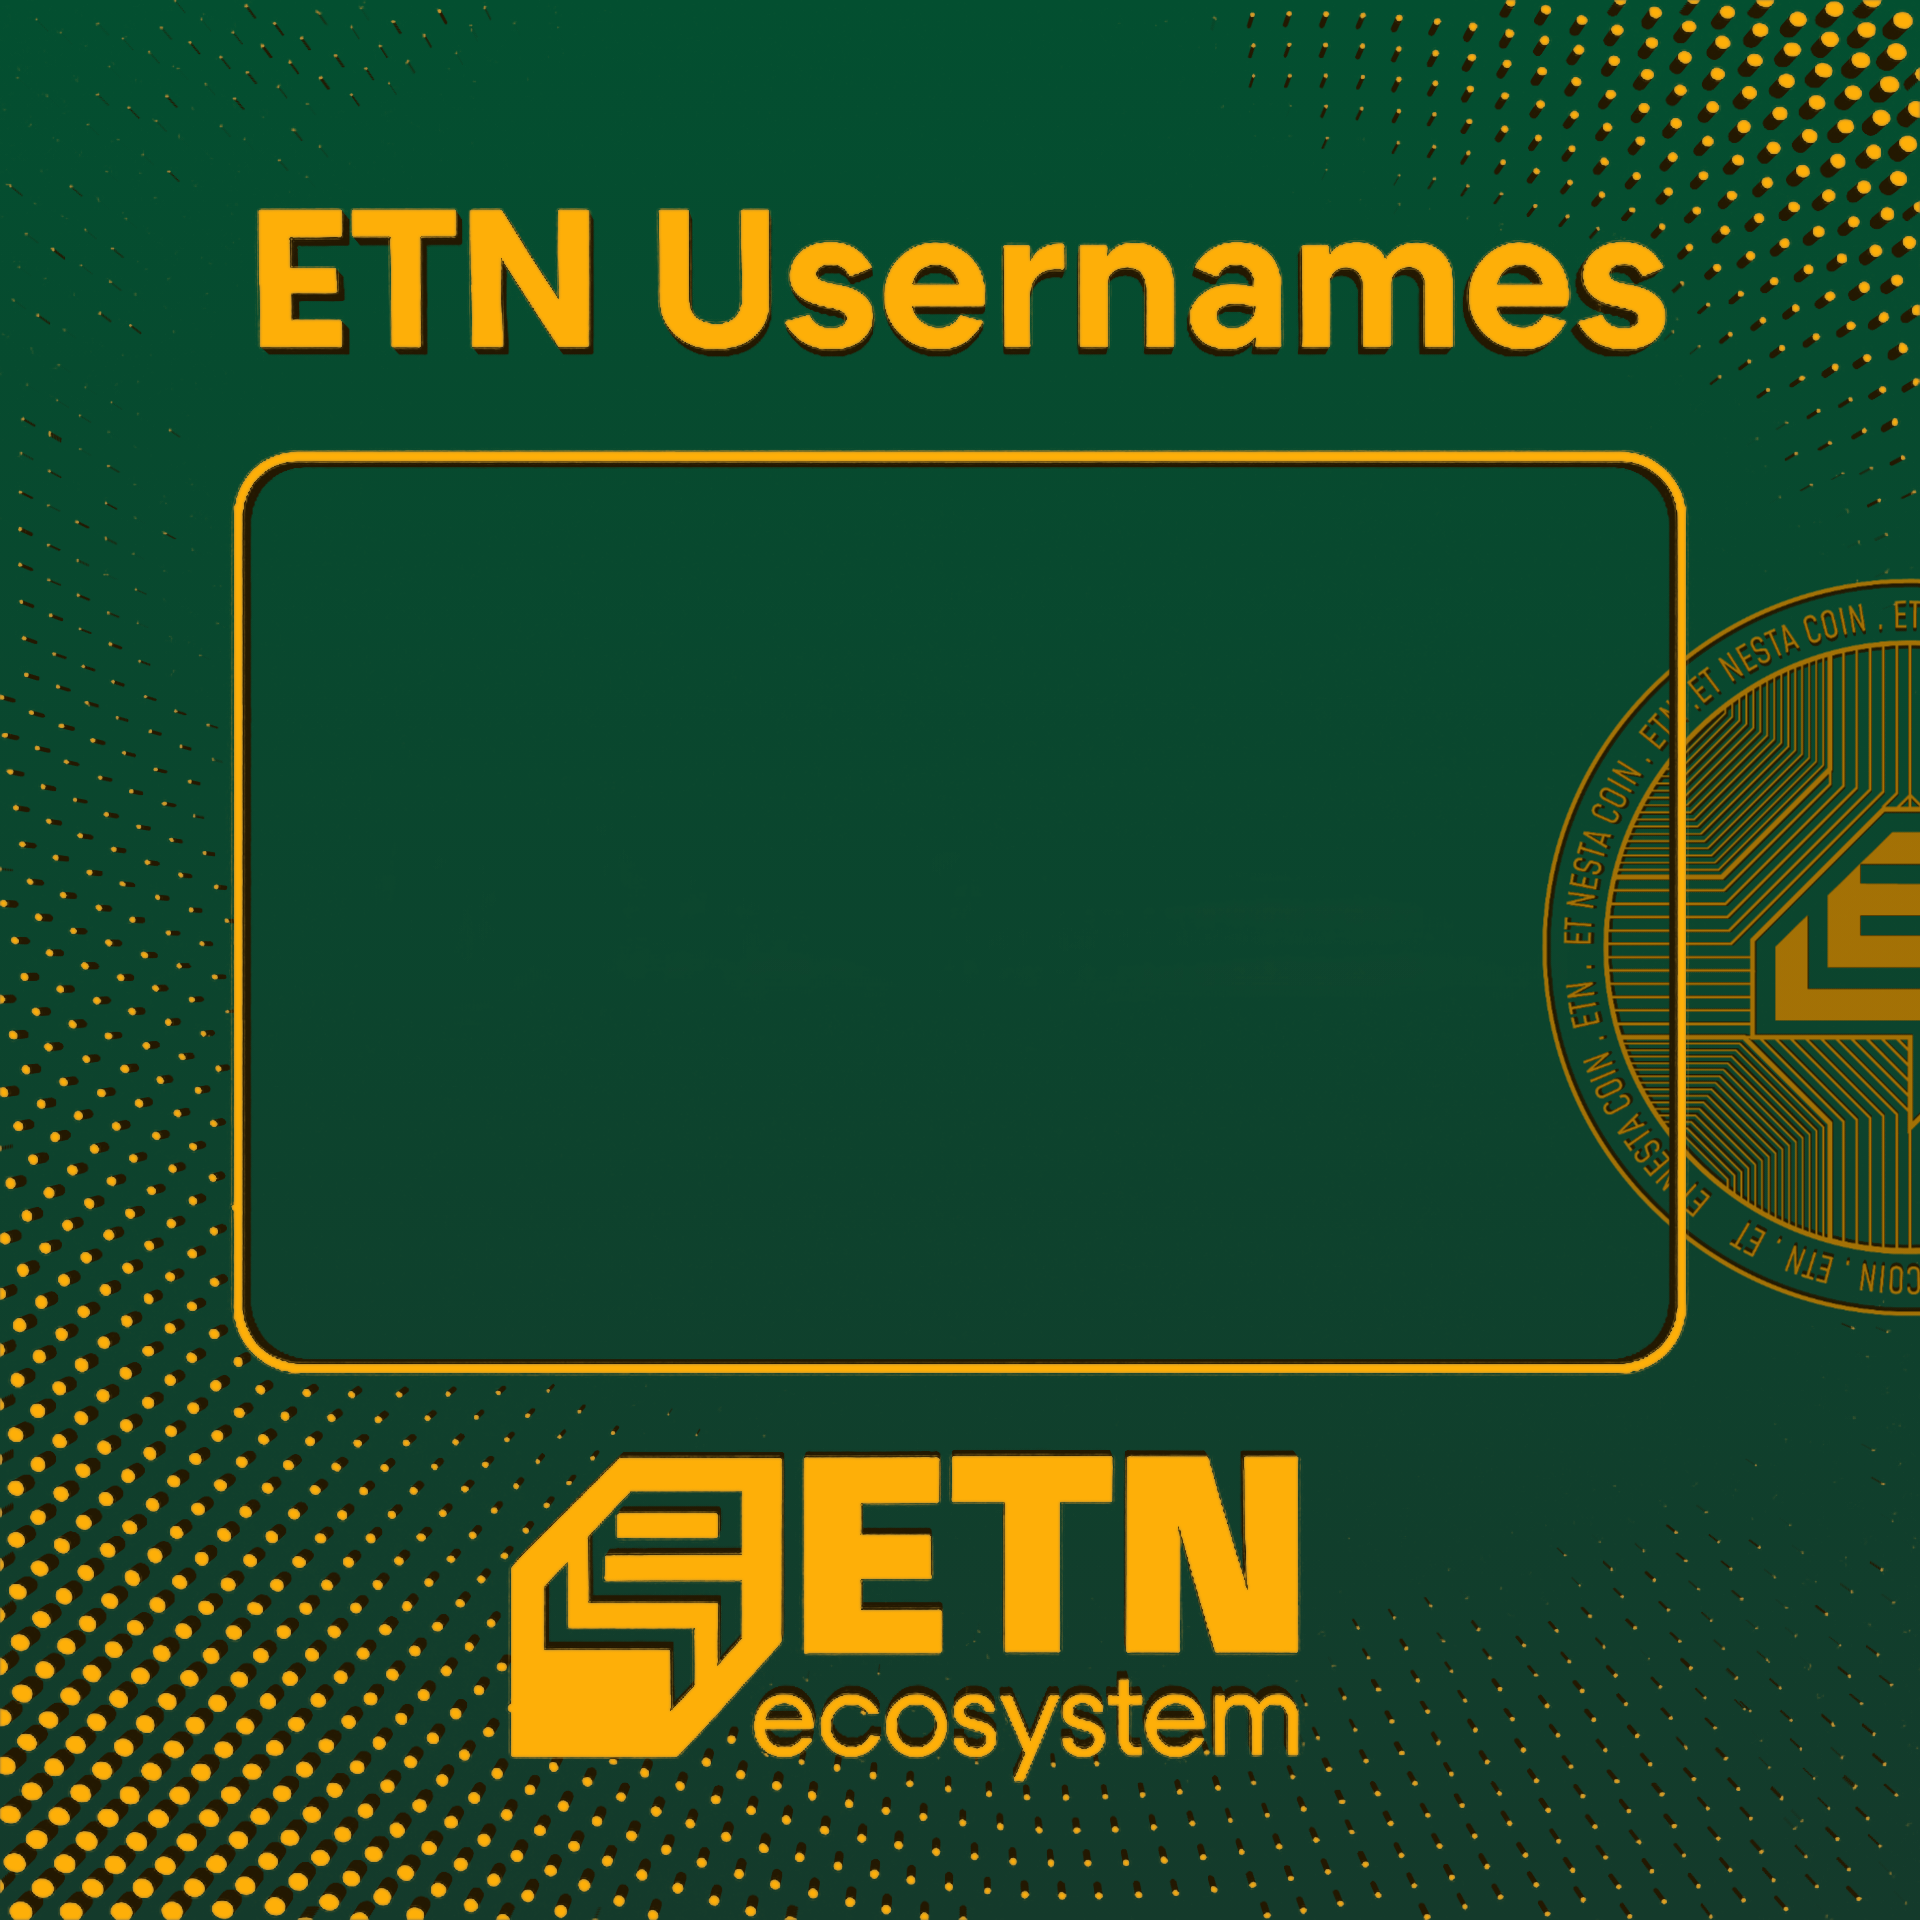
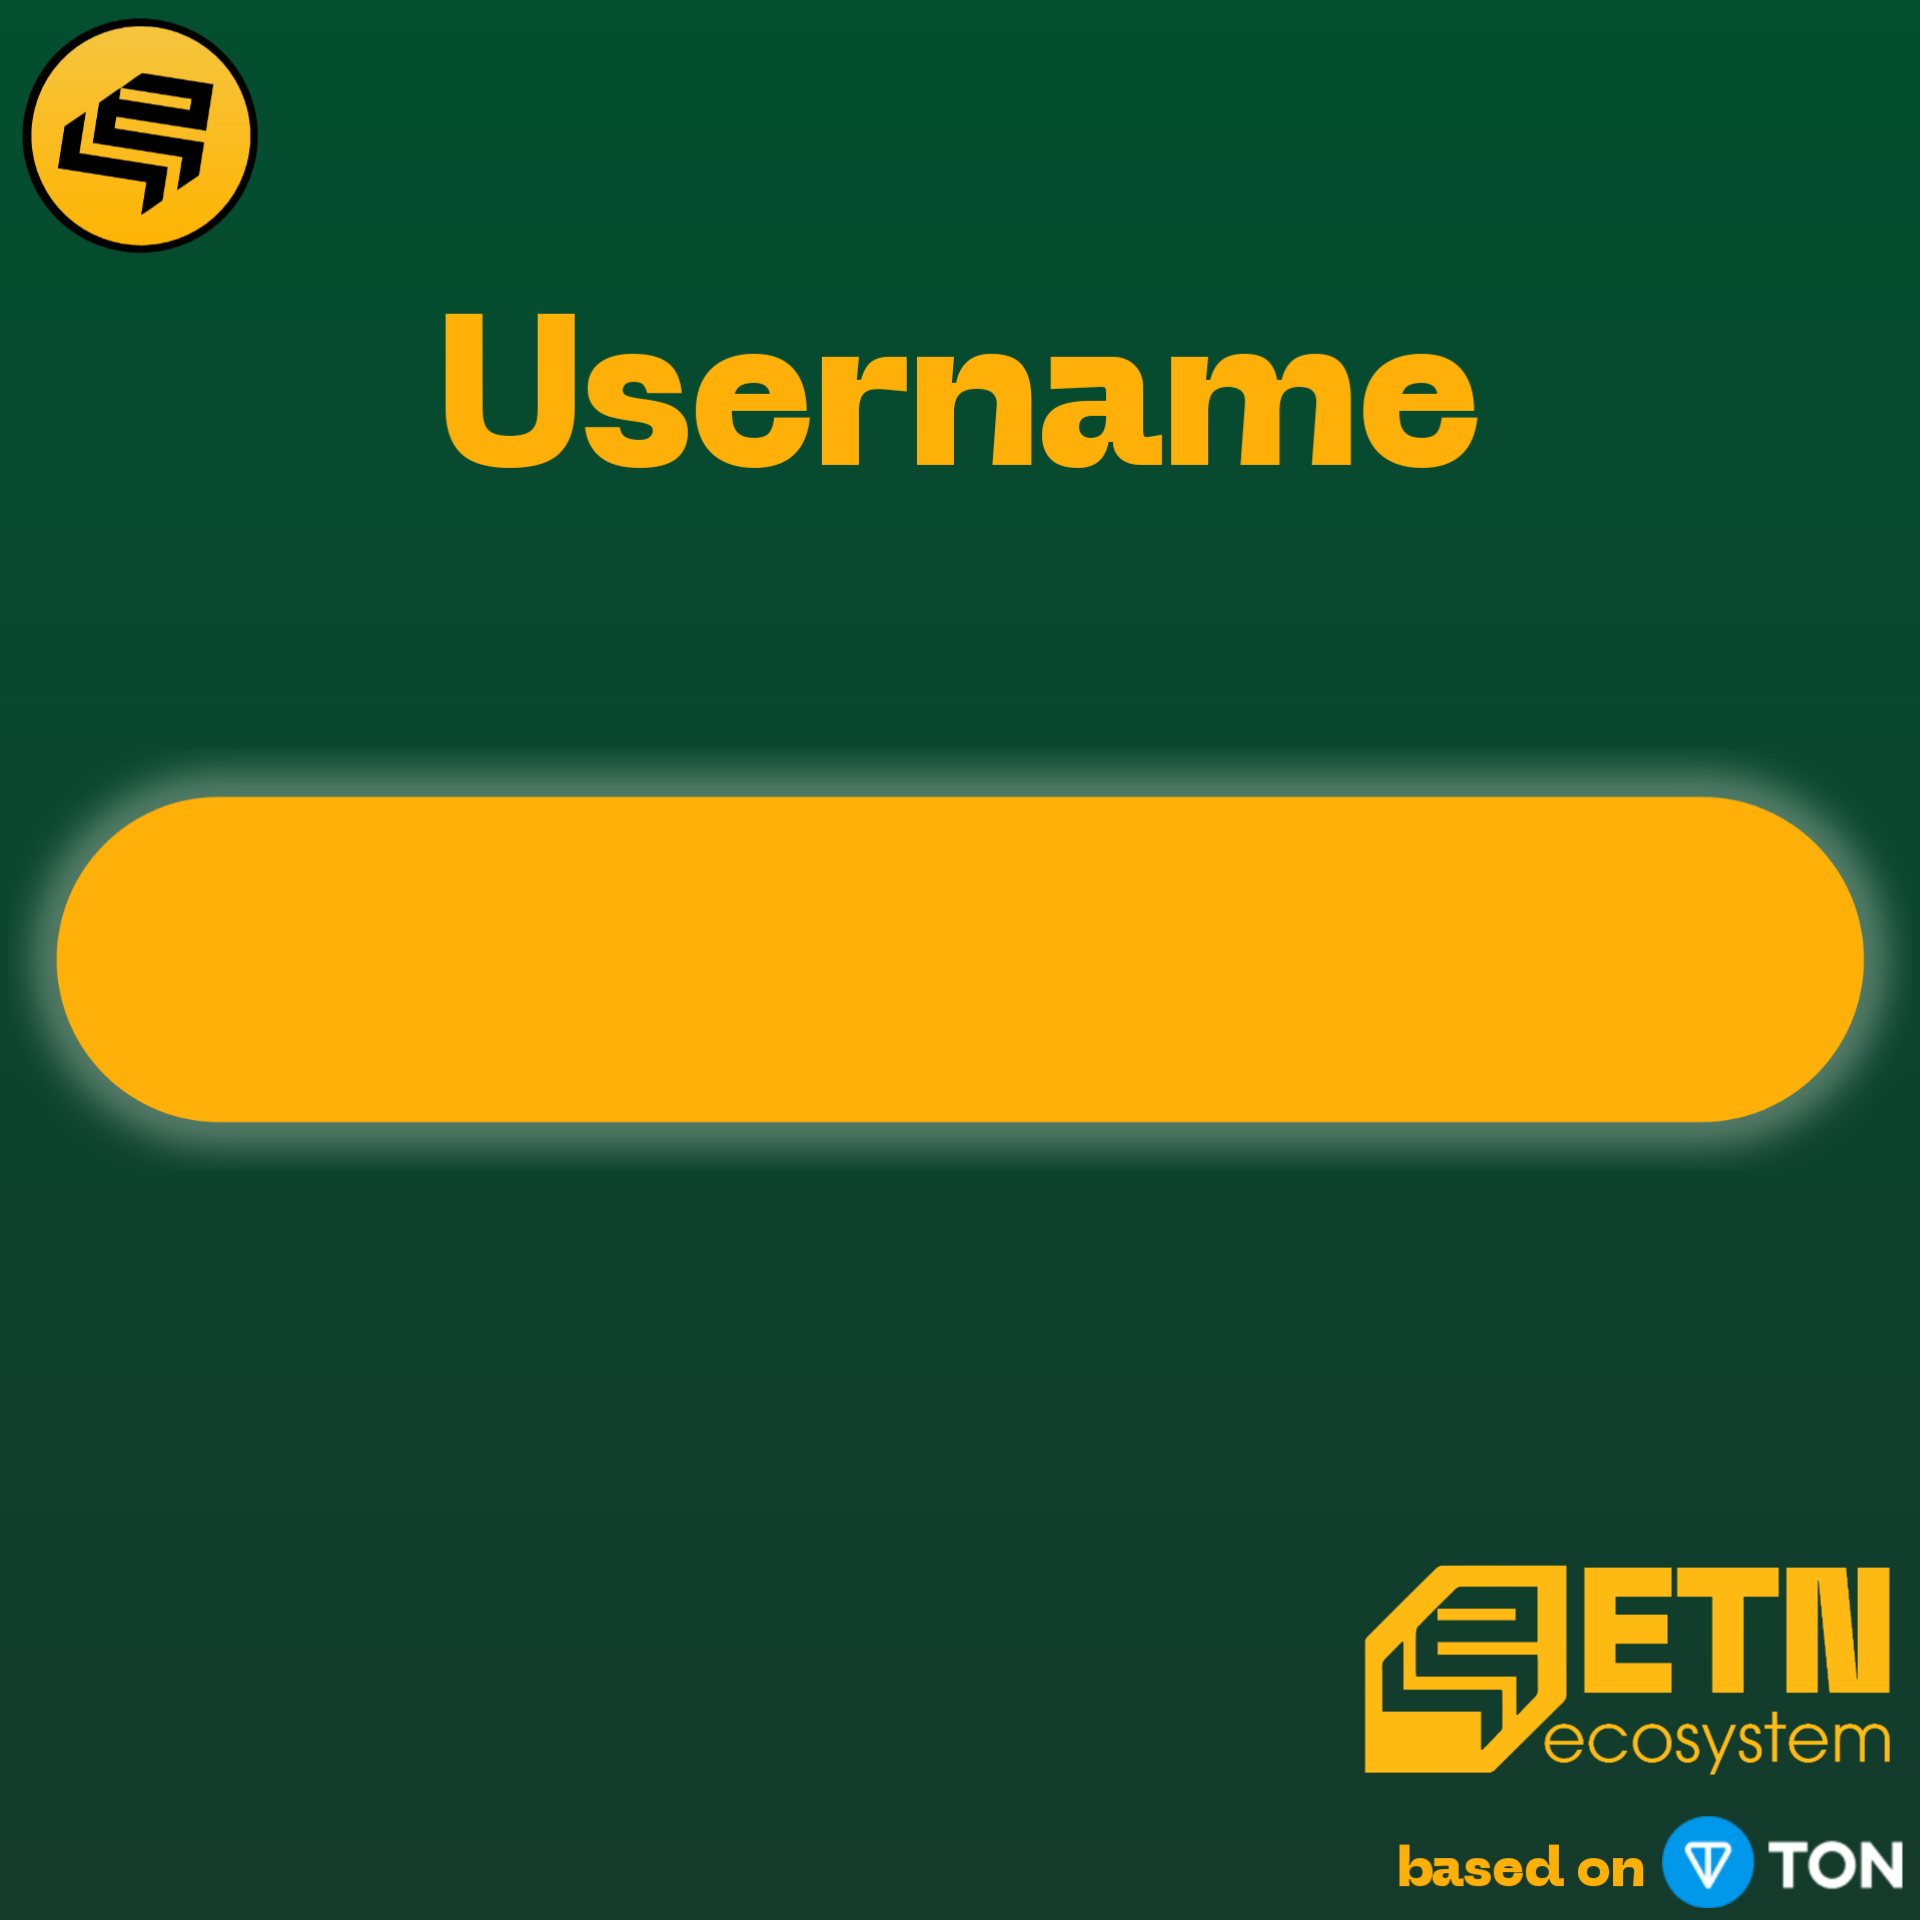
Add files via upload

diff --git a/main.py b/main.py
@@ -8,8 +8,10 @@ from PIL import Image, ImageDraw, ImageFont
 BASE_URL = "https://u-nft.etnecosystem.org/api"
 BACKGROUND_IMAGE_PATH = "assets/background.png"
 FONT_PATH = "assets/font.ttf"
-FONT_SIZE = 100
-TEXT_COLOR = (255, 255, 255) # White
+FONT_SIZE = 110
+TEXT_COLOR = (0, 0, 0) # Black
+SHADOW_COLOR = (255, 255, 255) # White
+SHADOW_OFFSET = (5, 7)
 
 app = FastAPI(
     title="ETN Username Metadata API",
@@ -38,8 +40,9 @@ async def get_username_json(username: str):
     """
     Generates TEP-64 compliant JSON metadata for a given ETN Username.
     """
+    display_name = f"@{username}"
     metadata = NftMetadata(
-        name=username,
+        name=display_name,
         description="An ETN Ecosystem Username.",
         image=f"{BASE_URL}/{username}.png",
         attributes=[],
@@ -65,14 +68,23 @@ async def get_username_image(username: str):
         draw = ImageDraw.Draw(background)
         img_width, img_height = background.size
 
+        # Add @ symbol to username
+        display_text = f"@{username}"
+
         # Calculate text size and position to center it
-        text_bbox = draw.textbbox((0, 0), username, font=font)
+        text_bbox = draw.textbbox((0, 0), display_text, font=font)
         text_width = text_bbox[2] - text_bbox[0]
         text_height = text_bbox[3] - text_bbox[1]
-        position = ((img_width - text_width) / 2, (img_height - text_height) / 2)
+        
+        # Adjust position to be slightly higher than center
+        position = ((img_width - text_width) / 2, (img_height - text_height) / 2.1)
+        shadow_position = (position[0] + SHADOW_OFFSET[0], position[1] + SHADOW_OFFSET[1])
 
+        # Draw the shadow
+        draw.text(shadow_position, display_text, font=font, fill=SHADOW_COLOR)
+        
         # Draw the text onto the image
-        draw.text(position, username, font=font, fill=TEXT_COLOR)
+        draw.text(position, display_text, font=font, fill=TEXT_COLOR)
 
         # Save the image to a bytes buffer
         img_byte_arr = io.BytesIO()
